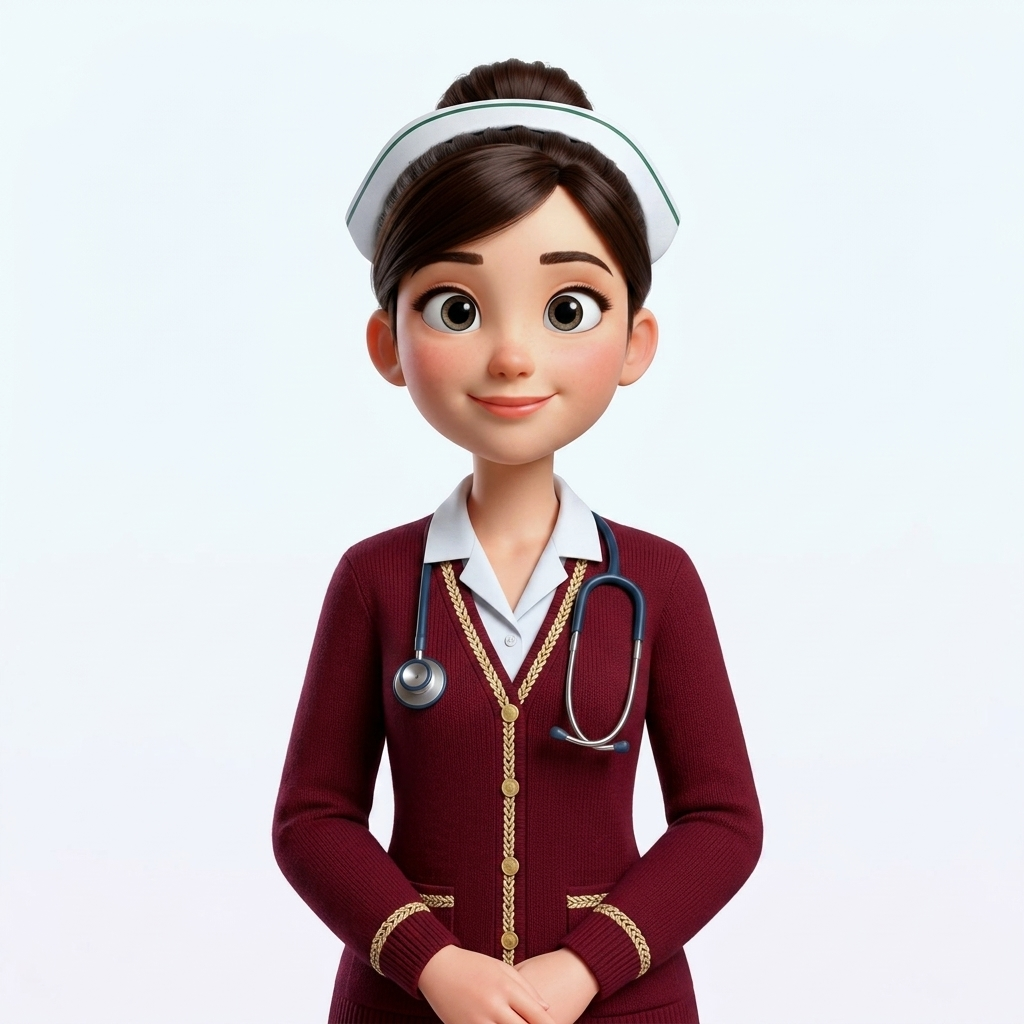
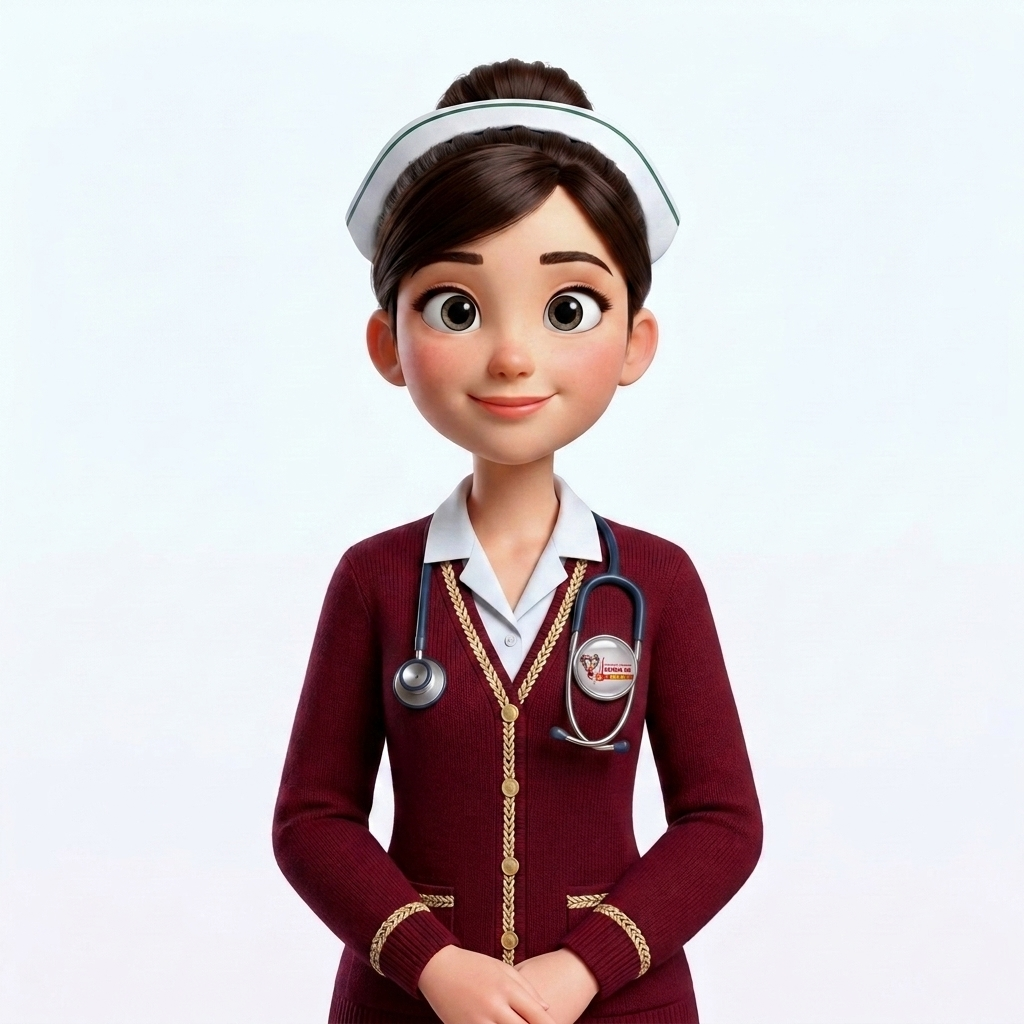
update: optimizaciones de diseno multidispositivo y recursos

Changed region(s): [[0.5312, 0.5938, 0.625, 0.6875], [0.5625, 0.875, 0.625, 0.9062], [0.3438, 0.9062, 0.375, 0.9375]]

diff --git a/src/components/Recognitions.jsx b/src/components/Recognitions.jsx
@@ -17,14 +17,6 @@ export default function Recognitions() {
       imageClass: "w-full h-full object-contain p-4 bg-white"
     },
     {
-      url: getAssetUrl('images/reconocimiento_2.jpg'),
-      title: "Acto de Entrega",
-      description: "Lic. María del Rosario Rebollo Paz recibiendo la distinción legislativa oficial.",
-      badge: "Ceremonia Protocolar",
-      badgeColor: "bg-[#800020]/10 text-[#800020] border-[#800020]/20",
-      imageClass: "w-full h-full object-cover object-[center_15%]"
-    },
-    {
       url: getAssetUrl('images/reconocimiento_3.jpg'),
       title: "Respaldo SEDES La Paz",
       description: "Reconocimiento a la destacada labor en el Programa de Lucha Contra el Cáncer.",
@@ -42,7 +34,7 @@ export default function Recognitions() {
   return (
     <section id="reconocimientos" className="py-20 sm:py-24 bg-gradient-to-b from-[#f8fafc] to-white overflow-hidden">
       <div className="max-w-7xl mx-auto px-4 sm:px-6 lg:px-8 space-y-16">
-        
+
         {/* Section Header & Description */}
         <div className="grid grid-cols-1 lg:grid-cols-12 gap-8 items-start">
           <div className="lg:col-span-7 space-y-4">
@@ -69,15 +61,15 @@ export default function Recognitions() {
           </div>
         </div>
 
-        {/* Premium 3-Column Card Grid (No weird cropping, text readable) */}
-        <div className="grid grid-cols-1 md:grid-cols-3 gap-8 pt-2">
+        {/* Premium 2-Column Card Grid (No weird cropping, text readable) */}
+        <div className="grid grid-cols-1 md:grid-cols-2 gap-8 pt-2 max-w-4xl mx-auto">
           {cards.map((card, idx) => (
-            <div 
+            <div
               key={idx}
               className="bg-white rounded-3xl border border-slate-200/80 shadow-[0_4px_20px_rgba(0,0,0,0.03)] hover:shadow-xl transition-[transform,box-shadow] duration-300 ease-[cubic-bezier(0.25,0.46,0.45,0.94)] flex flex-col overflow-hidden group hover:-translate-y-1.5"
             >
               {/* Image Container with Zoom & Overlay */}
-              <div 
+              <div
                 onClick={() => openLightbox(idx)}
                 className="relative aspect-[3/4] bg-slate-100 overflow-hidden cursor-zoom-in border-b border-slate-100"
               >
@@ -88,7 +80,7 @@ export default function Recognitions() {
                   decoding="async"
                   className={`${card.imageClass} transition-transform duration-700 ease-[cubic-bezier(0.25,0.46,0.45,0.94)] group-hover:scale-105`}
                 />
-                
+
                 {/* Dark Hover Overlay */}
                 <div className="absolute inset-0 bg-slate-950/20 opacity-0 group-hover:opacity-100 transition-opacity duration-300 ease-[cubic-bezier(0.25,0.46,0.45,0.94)] flex items-center justify-center">
                   <div className="w-12 h-12 rounded-full bg-white/90 shadow-lg flex items-center justify-center text-slate-900 transform scale-90 group-hover:scale-100 transition-[transform,opacity] duration-300 ease-[cubic-bezier(0.25,0.46,0.45,0.94)]">
@@ -190,9 +182,8 @@ export default function Recognitions() {
                   <button
                     key={i}
                     onClick={() => setActiveIndex(i)}
-                    className={`w-2.5 h-2.5 rounded-full transition-all cursor-pointer ${
-                      activeIndex === i ? 'bg-[#800020] w-6' : 'bg-white/40 hover:bg-white/75'
-                    }`}
+                    className={`w-2.5 h-2.5 rounded-full transition-all cursor-pointer ${activeIndex === i ? 'bg-[#800020] w-6' : 'bg-white/40 hover:bg-white/75'
+                      }`}
                   />
                 ))}
               </div>

diff --git a/src/components/Footer.jsx b/src/components/Footer.jsx
@@ -73,7 +73,11 @@ export default function Footer({ onOpenAdmin }) {
         {/* Bottom Copyright */}
         <div className="flex flex-col sm:flex-row items-center justify-between gap-4 text-xs text-gray-500">
           <div>© 2026 Instituto Técnico Señor de Mayo. Todos los derechos reservados.</div>
-          <div>Formando líderes en salud en Bolivia.</div>
+          <div className="flex items-center gap-2">
+            <span>Formando líderes en salud en Bolivia.</span>
+            <span className="text-gray-700">|</span>
+            <span>Desarrollado por <span className="font-semibold text-gray-400 hover:text-gray-300 transition-colors">XpandeZ</span></span>
+          </div>
         </div>
       </div>
     </footer>
